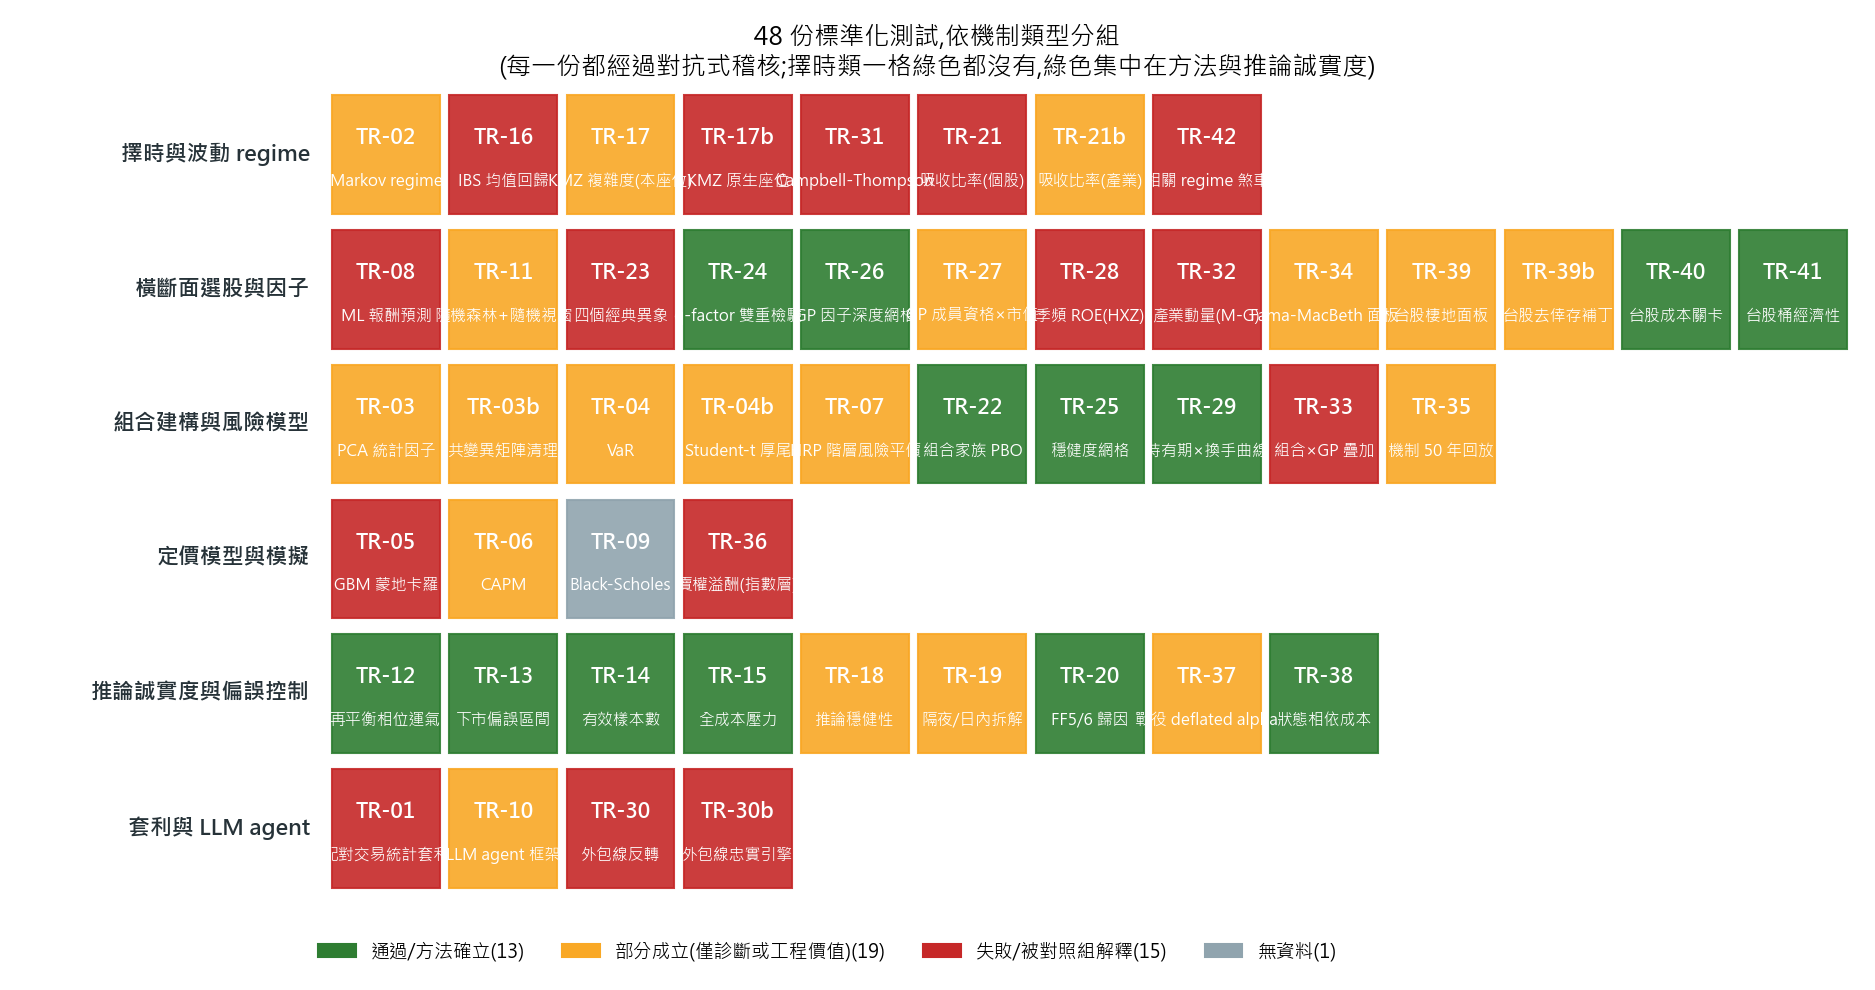
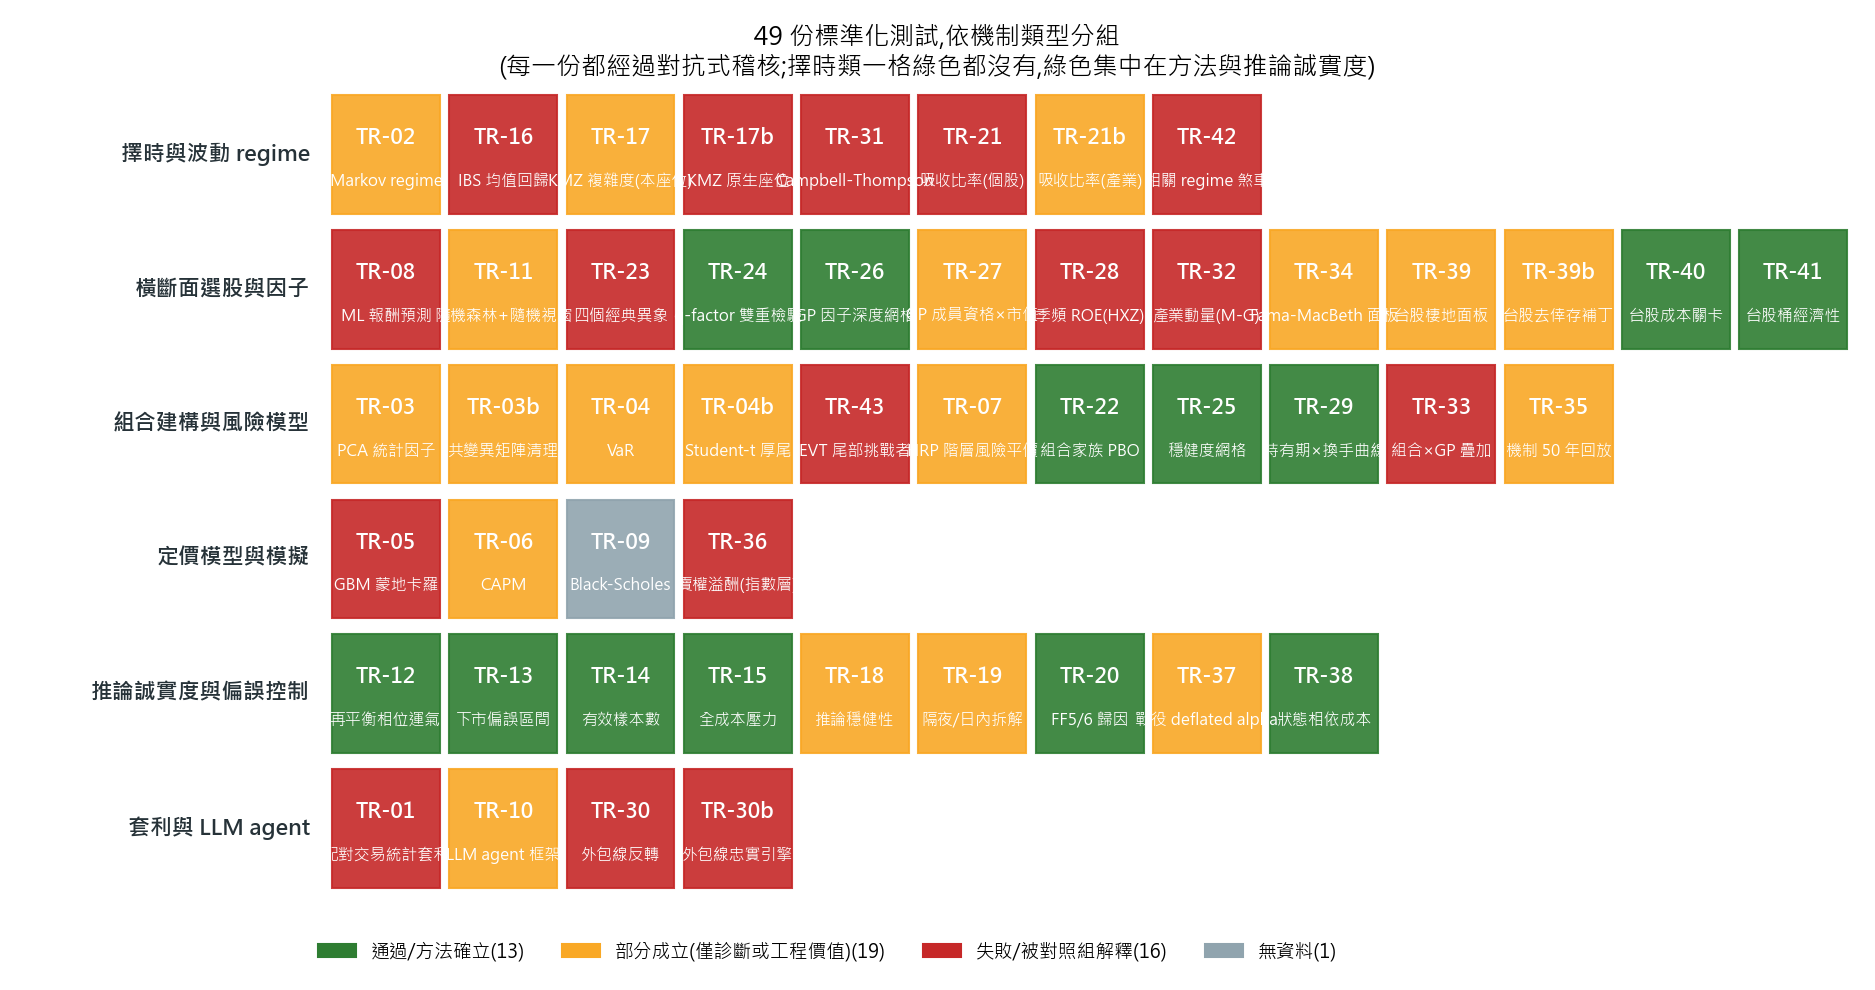
TR-43: EVT tail challenger REJECTED -- it underestimates the tail the incumbent already handles; risk-engine v2 now 0/2
Second risk-engine challenger, on the estimation-quality side the iron law
does not govern. Conditional EVT (GPD on EWMA-devolatilized exceedances) vs
the incumbent Student-t and a historical-simulation baseline; expanding
window, one-step-ahead.

Live seat 2015-2026 (2,256 out-of-sample days):
  Student-t  99%: 1.24% breaches, Kupiec p=0.267 | 99.5%: 0.44%, p=0.697
  EVT-GPD    99%: 1.82% breaches, Kupiec p=0.000 | 99.5%: 0.84%, p=0.036
EVT is REJECTED at both levels, the incumbent at neither -- the challenger
underestimates the tail. Its only edge is CVaR RMSE (47 vs 90bps), i.e. the
shape given a breach; getting the breach FREQUENCY wrong makes that useless.
The 50-year monthly analog cannot separate the three models (all overly
conservative at 0.20% breaches) -- reported as indistinguishable, not as a tie.

C3 is the honest part, and it was pre-registered: the only decision this
module feeds is the L-scale, and all three models imply the SAME leverage
(0.11-0.12). Even a winning challenger would have been BETTER-BUT-INERT and
would not have shipped. This one did not win either.

Diagnosis worth keeping: EWMA devolatilization assumes a conditionally-normal
skeleton, but this book's extreme days come from MULTIPLE SLEEVES failing
together (correlations jumping), not from one sleeve's volatility scaling.
Devolatilizing squashes exactly that structure back to normal scale, so the
GPD extrapolates from flattened residuals and comes out too narrow -- the same
[…]

Changed region(s): [[0.4021, 0.3636, 0.8661, 0.5152]]

diff --git a/scripts/readme_figs.py b/scripts/readme_figs.py
@@ -50,6 +50,7 @@ GROUPS = [
         ("TR-03b", "共變異矩陣清理", "Covariance cleaning", "M"),
         ("TR-04", "VaR", "VaR", "M"),
         ("TR-04b", "Student-t 厚尾", "Student-t fat tails", "M"),
+        ("TR-43", "EVT 尾部挑戰者", "EVT tail challenger", "F"),
         ("TR-07", "HRP 階層風險平價", "HRP", "M"),
         ("TR-22", "組合家族 PBO", "Combo-family PBO", "P"),
         ("TR-25", "穩健度網格", "Robustness grid", "P"),
@@ -89,9 +90,9 @@ LEGEND = {
            "F": "failed / explained by controls", "X": "no data"},
 }
 TITLES = {
-    "zh": "48 份標準化測試,依機制類型分組\n"
+    "zh": "49 份標準化測試,依機制類型分組\n"
           "(每一份都經過對抗式稽核;擇時類一格綠色都沒有,綠色集中在方法與推論誠實度)",
-    "en": "All 48 standardized tests, grouped by mechanism type\n"
+    "en": "All 49 standardized tests, grouped by mechanism type\n"
           "(every report adversarially audited; the timing row has no green at all)",
 }
 

diff --git a/docs/tests/TR-43-evt-tail.md b/docs/tests/TR-43-evt-tail.md
@@ -1,0 +1,65 @@
+# TR-43 — L3 EVT 尾部模組 vs 現役 Student-t(風險引擎 v2 第二挑戰者)
+
+> TR-42 否決了 L2(依 regime 訊號調曝險=擇時,已敗八次)。剩下的是**估計品質**問題——
+> 不是決定「何時曝險」,而是決定「該為多少損失編預算」——這類問題不受擇時鐵律管轄。
+> 本 TR 是其中第一個:條件式 EVT(對 EWMA 去波動化殘差的超額值配適 GPD)對上現役 Student-t
+> 與歷史模擬基準。腳本:`scripts/tests/tr43_evt_tail.py` · 圖:`docs/tests/img/tr43_evt_tail.png`
+
+## 判定:**REJECTED——EVT 在兩個座位上都沒有優於現役 Student-t,而且它被拒絕的次數更多(3 vs 1)**
+
+CAL 過(重現 TR-04b:常態 VaR 99% 被 Kupiec 拒絕 p<0.0001,Student-t 未被拒絕 p=0.267)。
+
+### C1/C2 實際座位 2015–2026(日頻,樣本外 2,256 期)
+
+| 模型 | 99% 破線率 | Kupiec p | 99.5% 破線率 | Kupiec p | CVaR-RMSE |
+|---|---|---|---|---|---|
+| **Student-t(現役)** | **1.24%** | **0.267** | **0.44%** | **0.697** | 90 / 59 bps |
+| 歷史模擬 | 2.04% | **0.000** ✗ | 0.84% | **0.036** ✗ | 47 / 52 bps |
+| **EVT-GPD(挑戰者)** | 1.82% | **0.000** ✗ | 0.84% | **0.036** ✗ | 47 / 51 bps |
+
+**EVT 在兩個信心水準都被 Kupiec 拒絕,現役都沒有。** EVT 的破線率(1.82%)接近歷史模擬
+(2.04%)而非名目值——條件式 EVT 在這條報酬流上**低估了尾部**。它唯一的優勢是 CVaR-RMSE
+略低(47 vs 90bps),但那是「已破線之後的形狀」較準;**破線頻率本身錯了,形狀準沒有用**。
+
+### C4 類比座位 1975–2026(月頻,regime 多樣,樣本外 497 期)
+
+三個模型**完全相同**(破線 0.20%、Kupiec p=0.029、CVaR-RMSE 166–400bps):月頻資料下
+三者都**過度保守**(實際破線遠低於名目),差異落在雜訊內。長史座位無法分辨它們。
+
+### C3 這個模組真正餵養的決策(誠實的一段)
+
+| 模型 | 單日 99% 損失 | 允許 L |
+|---|---|---|
+| Student-t(現役) | −1.66% | 0.12 |
+| 歷史模擬 | −1.74% | 0.11 |
+| EVT-GPD | −1.71% | 0.12 |
+
+**三個模型給出的槓桿刻度一模一樣。** 就算 EVT 贏了統計檢定,它也**改變不了任何決策**——
+這正是 F0 預先寫下「BETTER-BUT-INERT 不入列」那條規則要處理的情況。實際結果更乾脆:
+它連統計檢定都沒贏。
+
+![TR-43 EVT tail](img/tr43_evt_tail.png)
+
+## 讀法
+
+1. **現役 Student-t 是對的工具。** TR-04b 選它是因為常態被拒絕;現在它又在更嚴格的比較裡
+   (含獨立性檢定與 CVaR 誤差、兩個座位)守住位置。**不改。**
+2. **條件式 EVT 在這裡低估尾部的原因**:EWMA 去波動化假設條件常態的骨架,而主力組合的
+   極端日多半是**多腿同時失效**(相關跳升)而非單腿波動放大——去波動化把這種結構性事件
+   壓回常態尺度,GPD 再從被壓平的殘差外推,自然不夠寬。這與 TR-05 的教訓同源:
+   **對這個帳簿,尾部的來源是相關結構,不是邊際波動。**
+3. **風險引擎 v2 目前 0/2**:L2 敗於擇時鐵律、L3 敗於估計品質檢定。剩 L1(HAR-RV 波動預測)
+   與 L4(component-CVaR 配置器,先驗最低,TR-22 已證配置器互換)。**這個框架正在如設計般
+   運作**——「打不贏現役者不入列」的預設答案就是「不入列」。
+
+## 誠實範圍
+
+- 閾值 10%、兩個信心水準動工前固定,**無網格搜尋**(EVT 的閾值選擇是文獻上出名的自由度,
+  一搜就會找到「有效」的格子——那正是 F5 禁止的事)。
+- 日頻座位的極端事件樣本仍小(99.5% 名目=約 11 次破線);月頻座位更小,故 C4 只能說
+  「分不出來」而非「一樣好」。
+- CVaR 的 Student-t 版用模擬求解;EVT 的 CVaR 在 shape≥1 時退化為 VaR×1.5(保護性處理)。
+- 試驗會計:與 TR-42 共用「風險引擎挑戰者」家族計數(累計 2)。
+
+*2026-07-20。CAL 過;判定照 F0 嚴格路由(EVT 拒絕次數多於現役 → REJECTED);C3 的 L 刻度
+無差別結果照 F0 預先寫下的 BETTER-BUT-INERT 條款記錄。*

diff --git a/README.md b/README.md
@@ -10,7 +10,7 @@
 
 ### What this is
 
-A personal research project. It started with a finding we couldn't ignore: **McLean & Pontiff (2016, *Journal of Finance*)** re-tested 97 published return predictors and found their returns average **26% lower out-of-sample and 58% lower after publication** — the market eats published edges. So the question became: *of everything floating around the internet, papers, and guru books, how much survives an honest test run today?* Using $0/month of free data (yfinance, SEC EDGAR, public archives), across 100+ commits and **~150 mechanisms/strategies tested (48 standardized test reports, every one adversarially audited)**, the answer turned out to be more valuable than the question — because it turned *"what do we know, what don't we know, and how do we decide what's feasible"* into reproducible code and documents.
+A personal research project. It started with a finding we couldn't ignore: **McLean & Pontiff (2016, *Journal of Finance*)** re-tested 97 published return predictors and found their returns average **26% lower out-of-sample and 58% lower after publication** — the market eats published edges. So the question became: *of everything floating around the internet, papers, and guru books, how much survives an honest test run today?* Using $0/month of free data (yfinance, SEC EDGAR, public archives), across 100+ commits and **~150 mechanisms/strategies tested (49 standardized test reports, every one adversarially audited)**, the answer turned out to be more valuable than the question — because it turned *"what do we know, what don't we know, and how do we decide what's feasible"* into reproducible code and documents.
 
 ### The bottom line (as of 2026-07)
 
@@ -20,12 +20,12 @@ A personal research project. It started with a finding we couldn't ignore: **McL
 | Any real alpha at all? | **One, borderline.** The 5-sleeve risk-parity book: monthly Carhart t=2.64, below the strict 3.0 bar. Its real deliverable is risk-shaping, levered to your budget. Selection-honest deflation (TR-37): P(the alpha is real) ≈ 0.87 at the 17 combo-level trials we actually ran, 0.56 under the paranoid all-campaign count, ≈ 0.8 under a 90%-null skeptical prior — most likely real, but no honest angle calls it certain. |
 | Any stock-picking signal? | **One, and it keeps getting more honest.** Gross profitability — headline ICIR +0.30, but masked to actual index members at each date it retains only 59% (ICIR +0.13, TR-27), and its IC turned negative in 2025-26 (on watch); a joint Fama-MacBeth panel sharpens the watch — independently priced in 2015-2020 (t=+2.67), flat since 2021 (TR-34). Momentum, value, PEAD, insider, ML forecasters, and four classic anomalies all failed; industry momentum replicates but is pure momentum-factor exposure (TR-32). And the two survivors do not stack: a GP sleeve subtracts alpha from the flagship book (TR-33 — the honest chain ends at a +0.04%/yr tradable spread). First crack of light from a new habitat: on the Taiwan panel (1,151 TWSE stocks, TR-39) four characteristics cleared t≥2 jointly — and the survivorship patch (TR-39b: official TWSE delisted list + a pandas pct_change ffill backdoor caught by CAL) then split them: momentum (+84bps/mo, t=2.4), abnormal volume (+94, t=3.4) and illiquidity (−106, t=−2.8) are CONFIRMED and stronger after 2021, while the MAX lottery premium was retired as survivorship glare. Then the cost gate (TR-40) INVERTED the ranking: the panel's strongest slope (abnormal volume, t=3.4) turns over 6.8x/yr and loses 7.07%/yr to fees, netting t=0.6; the weakest (illiquidity) barely turns over and nets **+6.75%/yr, t=2.3** — the only survivor, robust to a 31-tick break-even spread but capacity-capped, which is what an illiquidity premium *is*. The bucket decomposition (TR-41) then killed the intuitive high-capacity workaround: the premium lives ONLY in the last decile (D2 is already zero, D3-D9 are negative), so "avoid the most crowded names" is a significantly LOSING strategy (−0.92%/yr, t=−2.34) — excluding a good bucket just overweights the bad ones. It survives a skip-a-month stale-price check and decays monotonically with book size (+5.3%/yr at NT$50M, +1.5% at NT$500M): a textbook liquidity compensation, not an anomaly. |
 | Does market timing work? | **No — eight separate confirmations, and the law is broader than we thought.** A dumb constant exposure or a random control matched or beat every timing mechanism tested (Markov, IBS, absorption ratio on two seats, KMZ complexity, Campbell-Thompson sign restrictions, the outside bar). The eighth (TR-42) extends it from RETURN timing to RISK-INPUT timing: a bond-equity correlation brake — which forecasts nothing, it only claims the risk model's inputs changed — still lost to a constant at matched average exposure, and landed at the 20th percentile of a random-brake placebo. |
-| Then what's the asset here? | **The method and the data moat.** 48 adversarially audited test reports, a registry where negative results are first-class, seven documented self-corrections, and a $0 data stack with two collect-forward pipelines recording what money can't buy retroactively. |
+| Then what's the asset here? | **The method and the data moat.** 49 adversarially audited test reports, a registry where negative results are first-class, seven documented self-corrections, and a $0 data stack with two collect-forward pipelines recording what money can't buy retroactively. |
 
 ### What we built
 
 1. **An acceptance framework ("fabric" v2.0, [docs/17](docs/17-fabric-acceptance.md))** — a single rule table F0–F13 codifying every mistake we made: pre-committed falsifiable claims (F0), leak-free signals + fill-time conventions (F1), spread-scaled costs with mandatory 2× stress (F2), excess-over-T-bill Sharpe (F3), effective sample sizes (F4), campaign-wide trial accounting with a t≥3.0 alpha bar (F5), **the Nagel control triple — which simplest control explains it?** (F6), sub-period + long-history replay (F7), verdicts scoped to seat×habitat (F8), path randomization (F9), re-test cascades (F10), universe legitimacy (F11), rebalance-phase averaging (F12), and delisting rules (F13). Its economic preamble is **Grossman-Stiglitz**: at $0 information cost, equilibrium alpha is $0 — every re-open condition must be priced as an information cost.
-2. **Forty-eight standardized test reports** ([docs/tests/TR-01..24 + b-series](docs/tests/)): statistical arbitrage, Markov regime-switching, PCA factor models, covariance cleaning, VaR and fat tails, GBM Monte Carlo, CAPM, HRP, ML forecasting, Black-Scholes (N/A — no data, refused to fabricate), LLM agent frameworks, bagged backtesting, rebalance-phase luck, delisting bias, effective samples, cost stress, the IBS full trial — plus a paper-driven wave: inference robustness (TR-18), overnight/intraday decomposition (TR-19), FF5/6 and q-factor attribution (TR-20/24), four classic anomalies (TR-23), combo PBO (TR-22), and **native-seat replications** of Kelly-Malamud-Zhou's *Virtue of Complexity* (TR-17b) and the absorption ratio (TR-21b) — then a **depth series interrogating our own survivors** (the robustness plateau TR-25, GP depth/membership/quarterly clocks TR-26–28, holding-period economics TR-29, the two-survivor stacking test TR-33), the Goyal-Welch/Campbell-Thompson timing line at its source (TR-31), Moskowitz-Grinblatt industry momentum (TR-32), and a **creator-claim pipeline** that turns YouTube trading mechanisms into pre-registered tests (TR-30/30b). Every report was adversarially audited; the audits reversed our own headline more than once.
+2. **Forty-nine standardized test reports** ([docs/tests/TR-01..24 + b-series](docs/tests/)): statistical arbitrage, Markov regime-switching, PCA factor models, covariance cleaning, VaR and fat tails, GBM Monte Carlo, CAPM, HRP, ML forecasting, Black-Scholes (N/A — no data, refused to fabricate), LLM agent frameworks, bagged backtesting, rebalance-phase luck, delisting bias, effective samples, cost stress, the IBS full trial — plus a paper-driven wave: inference robustness (TR-18), overnight/intraday decomposition (TR-19), FF5/6 and q-factor attribution (TR-20/24), four classic anomalies (TR-23), combo PBO (TR-22), and **native-seat replications** of Kelly-Malamud-Zhou's *Virtue of Complexity* (TR-17b) and the absorption ratio (TR-21b) — then a **depth series interrogating our own survivors** (the robustness plateau TR-25, GP depth/membership/quarterly clocks TR-26–28, holding-period economics TR-29, the two-survivor stacking test TR-33), the Goyal-Welch/Campbell-Thompson timing line at its source (TR-31), Moskowitz-Grinblatt industry momentum (TR-32), and a **creator-claim pipeline** that turns YouTube trading mechanisms into pre-registered tests (TR-30/30b). Every report was adversarially audited; the audits reversed our own headline more than once.
 3. **Working infrastructure**: point-in-time data layer (DuckDB+Parquet; EDGAR aligned to filing dates; 1993+ index history; PIT S&P 500 membership 1996–2026), order-independent backtest engine, rigor modules (PSR/DSR/PBO/SPA), daily Telegram monitors on free GitHub Actions, two **collect-forward pipelines** (daily SPY/QQQ option chains; weekly analyst estimates for the S&P 500 — you cannot download the past, only record the present), a 70-source **data-source catalog** with adopt/reject verdicts ([docs/refs/data-sources.md](docs/refs/data-sources.md)), and a **paper-to-TR pipeline** ([docs/21](docs/21-paper-to-tr-pipeline.md)).
 
 ### Results at a glance
@@ -40,9 +40,9 @@ A personal research project. It started with a finding we couldn't ignore: **McL
 
 **The scoreboard.** 226 named variants registered, 26 mechanism families judged, 5 PASSED — and exactly **one** statistically significant alpha. Most of what the internet calls "a working strategy" died in this funnel; keeping the failed strategies on record is half this repo's value.
 
-![Verdict map of all 48 standardized tests, grouped by mechanism type](docs/img/readme_verdict_map_en.png)
+![Verdict map of all 49 standardized tests, grouped by mechanism type](docs/img/readme_verdict_map_en.png)
 
-**The verdict map (updated 2026-07).** All 48 standardized tests, grouped by *what kind of mechanism* each one judges. Read it by row: the timing/regime row has no green at all; the green lives almost entirely in the inference-honesty row — method, not signals. The 2026-07 additions are the two native-seat replications: KMZ's Virtue of Complexity **replicates on its home turf (Sharpe +0.41 at 12,000 features) and is still fully explained by volatility-timing controls (+0.50)** — Nagel's critique confirmed at the source (TR-17b); the absorption ratio's crash-warning spike **weakly survives on industry portfolios (7/10 vs 33% base rate) while its timing gate lost to a static constant for the fifth time** (TR-21b). The newest wave sharpened all three storylines: Campbell-Thompson's sign restrictions rescue out-of-sample R² directionally and are still spanned by the same volatility controls (TR-31); Moskowitz-Grinblatt industry momentum is the least-decayed mechanism we have ever tested (−2% post-publication vs the −58% McLean-Pontiff average) precisely because it is not an anomaly — it is momentum-factor exposure in industry clothes, with zero alpha over FF5+UMD in every window (TR-32); and a user audit caught our own outside-bar engine being unfaithful to its source on four counts — rebuilt faithfully, the verdict class survived, this time earned (TR-30→30b).
+**The verdict map (updated 2026-07).** All 49 standardized tests, grouped by *what kind of mechanism* each one judges. Read it by row: the timing/regime row has no green at all; the green lives almost entirely in the inference-honesty row — method, not signals. The 2026-07 additions are the two native-seat replications: KMZ's Virtue of Complexity **replicates on its home turf (Sharpe +0.41 at 12,000 features) and is still fully explained by volatility-timing controls (+0.50)** — Nagel's critique confirmed at the source (TR-17b); the absorption ratio's crash-warning spike **weakly survives on industry portfolios (7/10 vs 33% base rate) while its timing gate lost to a static constant for the fifth time** (TR-21b). The newest wave sharpened all three storylines: Campbell-Thompson's sign restrictions rescue out-of-sample R² directionally and are still spanned by the same volatility controls (TR-31); Moskowitz-Grinblatt industry momentum is the least-decayed mechanism we have ever tested (−2% post-publication vs the −58% McLean-Pontiff average) precisely because it is not an anomaly — it is momentum-factor exposure in industry clothes, with zero alpha over FF5+UMD in every window (TR-32); and a user audit caught our own outside-bar engine being unfaithful to its source on four counts — rebuilt faithfully, the verdict class survived, this time earned (TR-30→30b).
 
 ![Flagship 5-sleeve combo vs VOO at L=1 and at a same-risk L=1.5](docs/img/fig_combo.png)
 
@@ -201,7 +201,7 @@ Architecture: UI (Streamlit) → CLI (Typer) → `trading_analysis.api` (only pu
 
 ### 專案概述
 
-一個個人研究的 side project。起點是一篇沒辦法當作沒看到的論文：**McLean 與 Pontiff(2016，《Journal of Finance》)**重測了 97 個已發表的報酬預測訊號，發現這些訊號的報酬平均在**樣本外低了 26%、論文發表之後低了 58%**——公開發表的優勢，會被市場逐步吃掉。所以真正的問題變成：「網路上、論文裡、大師書裡的那些策略，經過誠實的測試、放到今天，還剩下多少？」我們用每月 0 元的免費資料(yfinance、SEC EDGAR、公開檔案庫)，歷經 100 多次 commit、**約 150 個機制/策略的系統性測試(48 份標準化測試報告，每一份都經過對抗式稽核)**，得到的答案比問題本身更有價值，因為它把「什麼是已知、什麼是未知、如何判斷可不可行」變成了可重現的程式與文件。
+一個個人研究的 side project。起點是一篇沒辦法當作沒看到的論文：**McLean 與 Pontiff(2016，《Journal of Finance》)**重測了 97 個已發表的報酬預測訊號，發現這些訊號的報酬平均在**樣本外低了 26%、論文發表之後低了 58%**——公開發表的優勢，會被市場逐步吃掉。所以真正的問題變成：「網路上、論文裡、大師書裡的那些策略，經過誠實的測試、放到今天，還剩下多少？」我們用每月 0 元的免費資料(yfinance、SEC EDGAR、公開檔案庫)，歷經 100 多次 commit、**約 150 個機制/策略的系統性測試(49 份標準化測試報告，每一份都經過對抗式稽核)**，得到的答案比問題本身更有價值，因為它把「什麼是已知、什麼是未知、如何判斷可不可行」變成了可重現的程式與文件。
 
 ### 結果總結(截至 2026-07)
 
@@ -211,12 +211,12 @@ Architecture: UI (Streamlit) → CLI (Typer) → `trading_analysis.api` (only pu
 | 有真的 alpha 嗎？ | **有一個，而且只是邊際。**五 sleeve 風險平價組合：月頻 Carhart t=2.64，低於嚴格門檻 3.0。它真正的價值是風險塑形，可依回撤預算加槓桿。選擇誠實化(TR-37)：P(alpha 為真) 在實際跑過的 17 次組合層級試驗下 ≈ 0.87、悲觀全戰役計數下 0.56、九成懷疑先驗下 ≈ 0.8——大概率是真的，但沒有任何誠實的角度能說成確定。 |
 | 有選股訊號嗎？ | **有一個，而且愈測愈誠實。**毛利/資產品質因子——頭條 ICIR +0.30，但遮罩到「當天真的在指數裡」的名字後只保留 59%(ICIR +0.13，TR-27)，且 2025–26 的 IC 轉負(列入觀察)；聯合 Fama-MacBeth 面板把觀察磨得更利——2015–2020 獨立被定價(t=+2.67)，2021 之後歸零(TR-34)。動能、價值、PEAD、內部人、機器學習預測、四大經典異象全數陣亡；產業動量能複製但整條是動量因子曝險(TR-32)。而且兩個倖存者疊不起來：把 GP sleeve 加進主力帳簿反而扣掉 alpha(TR-33——誠實鏈的終點是 +0.04%/yr 的可交易價差)。新棲地透出第一道光：台股面板(1,151 檔 TWSE，TR-39)四個特徵聯合過 t≥2——去倖存補丁(TR-39b：TWSE 官方終止名單+CAL 抓到的 pandas pct_change ffill 後門)隨後把它們分成兩半：動能(+84bps/mo，t=2.4)、異常量(+94，t=3.4)、低流動性(−106，t=−2.8)**確認**且 2021 後更強；MAX 樂透溢價判定為倖存者眩光退役。接著成本關卡(TR-40)把排序**整個翻轉**：面板裡最強的異常量(t=3.4)年換手 6.8 倍、吃掉 7.07% 成本後只剩 t=0.6；最弱的低流動性幾乎不換手，淨賺 **+6.75%/yr、t=2.3**——唯一存活者，對價差假設穩健到損益兩平要 31 跳，但容量有天花板，而這正是低流動性溢酬的定義。桶分解(TR-41)接著殺掉了直覺上的高容量替代方案：溢酬**只住在最尾端那一格**(D2 已歸零、D3–D9 全負)，所以「避開最擁擠的股票」是個**顯著虧損**的策略(−0.92%/yr，t=−2.34)——排除一個好桶只會讓你重壓在壞桶上。它通過跳月的停滯價檢查，並隨資金規模單調衰減(NT$5,000 萬 +5.3%、NT$5 億 +1.5%)：教科書式的流動性補償，不是異象。 |
 | 擇時有用嗎？ | **沒有——八次獨立確認，而且這條鐵律比我們原本以為的更廣。**一個恆定部位或隨機對照，就能追平或打敗我們測過的每一個擇時機制(Markov、IBS、吸收比率兩個座位、KMZ 複雜度、Campbell-Thompson 符號約束、外包線)。第八次(TR-42)把它從**報酬擇時**擴大到**風險輸入型擇時**：一個股債相關煞車——它不預測任何報酬，只宣稱風險模型的輸入變了——仍然輸給同平均曝險的恆定部位，而且只落在隨機煞車安慰劑的第 20 百分位。 |
-| 那這個專案的資產是什麼？ | **方法本身，加上資料護城河。**48 份經對抗式稽核的測試報告、一份把負面結果當一等公民的註冊表、七次白紙黑字的自我修正，以及 $0 的資料堆疊與兩條「現在不錄、以後買不到」的前向收集管線。 |
+| 那這個專案的資產是什麼？ | **方法本身，加上資料護城河。**49 份經對抗式稽核的測試報告、一份把負面結果當一等公民的註冊表、七次白紙黑字的自我修正，以及 $0 的資料堆疊與兩條「現在不錄、以後買不到」的前向收集管線。 |
 
 ### 建置內容
 
 1. **一套驗收標準(fabric v2.0，[docs/17](docs/17-fabric-acceptance.md))**：單一規則表 F0–F13，把每一次踩過的坑逐條寫成明文規則：動工前先定案的可證偽宣稱(F0)、無洩漏訊號與成交時點慣例(F1)、以買賣價差縮放的成本加上強制 2× 壓力測試(F2)、扣除國庫券利率後的超額 Sharpe(F3)、有效樣本數(F4)、全 campaign 試驗數記帳與 alpha 門檻 t≥3.0(F5)、**Nagel 三重對照：「哪一個最簡單的對照組就能解釋它？」**(F6)、子期穩定與長歷史重放(F7)、判定效力=適用市場×適用情境(F8)、路徑隨機化(F9)、複測級聯(F10)、標的池合法性(F11)、再平衡相位平均(F12)、下市規則(F13)。經濟學前提是 **Grossman-Stiglitz**：資訊成本 0 元，均衡下的 alpha 就是 0 元；每個翻案條件都必須計為一筆資訊成本。
-2. **48 份標準化測試報告**([docs/tests/TR-01..24 + b 系列](docs/tests/))：統計套利、Markov 狀態轉換、PCA 因子模型、共變異清理、VaR 與厚尾、GBM 蒙地卡羅、CAPM、HRP、機器學習預測、Black-Scholes(N/A：沒有資料就不硬湊數字)、LLM agent 框架、bagged 回測、再平衡相位運氣、下市偏誤、有效樣本、成本壓力、IBS 完整檢驗，加上一整波由經典論文驅動的重測：推論穩健性(TR-18)、隔夜/日內拆解(TR-19)、FF5/6 與 q-factor 歸因(TR-20/24)、四個經典異象(TR-23)、組合 PBO(TR-22)，以及把 KMZ《複雜度的美德》(TR-17b)與吸收比率(TR-21b)搬回**論文原生棲地**的重測——之後是**對自家倖存者的深度審訊系列**(穩健度高原 TR-25、GP 深度/成員資格/季頻時鐘 TR-26–28、持有期經濟學 TR-29、兩倖存者疊加終審 TR-33)、回到源頭的 Goyal-Welch/Campbell-Thompson 擇時線(TR-31)、Moskowitz-Grinblatt 產業動量(TR-32)，以及把 YouTube 交易機制轉成預先登記測試的**創作者宣稱管線**(TR-30/30b)。每一份報告都經過對抗式稽核，而且稽核不只一次推翻了我們自己的頭條讀數。
+2. **49 份標準化測試報告**([docs/tests/TR-01..24 + b 系列](docs/tests/))：統計套利、Markov 狀態轉換、PCA 因子模型、共變異清理、VaR 與厚尾、GBM 蒙地卡羅、CAPM、HRP、機器學習預測、Black-Scholes(N/A：沒有資料就不硬湊數字)、LLM agent 框架、bagged 回測、再平衡相位運氣、下市偏誤、有效樣本、成本壓力、IBS 完整檢驗，加上一整波由經典論文驅動的重測：推論穩健性(TR-18)、隔夜/日內拆解(TR-19)、FF5/6 與 q-factor 歸因(TR-20/24)、四個經典異象(TR-23)、組合 PBO(TR-22)，以及把 KMZ《複雜度的美德》(TR-17b)與吸收比率(TR-21b)搬回**論文原生棲地**的重測——之後是**對自家倖存者的深度審訊系列**(穩健度高原 TR-25、GP 深度/成員資格/季頻時鐘 TR-26–28、持有期經濟學 TR-29、兩倖存者疊加終審 TR-33)、回到源頭的 Goyal-Welch/Campbell-Thompson 擇時線(TR-31)、Moskowitz-Grinblatt 產業動量(TR-32)，以及把 YouTube 交易機制轉成預先登記測試的**創作者宣稱管線**(TR-30/30b)。每一份報告都經過對抗式稽核，而且稽核不只一次推翻了我們自己的頭條讀數。
 3. **已建置的基礎設施**：point-in-time 資料層(DuckDB+Parquet；EDGAR 以申報日對齊；指數歷史回溯 1993；S&P 500 成分股 PIT 面板 1996–2026)、order-independent 回測引擎、嚴謹度模組(PSR/DSR/PBO/SPA)、每日 Telegram 監控(跑在免費的 GitHub Actions 上)、兩條**前向收集管線**(每日 SPY/QQQ 選擇權鏈快照；每週 S&P 500 分析師預估快照。過去買不到，只能從今天開始記錄)、一份含採用/不採用判定的 **70 個資料源目錄**([docs/refs/data-sources.md](docs/refs/data-sources.md))，以及**論文到 TR 管線**([docs/21](docs/21-paper-to-tr-pipeline.md))。
 
 ### 成果一覽
@@ -231,9 +231,9 @@ Architecture: UI (Streamlit) → CLI (Typer) → `trading_analysis.api` (only pu
 
 **計分板。** 226 個具名變體登記在案、26 類機制接受檢驗、5 個 PASSED，而統計顯著的 alpha 恰好只有 **1 個**。網路上大多數所謂「有效的策略」都死在這個漏斗裡；把這些失敗的策略完整記錄下來，正是這個 repo 一半的價值。
 
-![48 份標準化測試，依機制類型分組的判定分布](docs/img/readme_verdict_map.png)
+![49 份標準化測試，依機制類型分組的判定分布](docs/img/readme_verdict_map.png)
 
-**判定全景(2026-07 更新)。** 48 份標準化測試，依照「它在檢驗哪一種機制」分組。用橫列來讀：擇時與 regime 那一列一格綠色都沒有；綠色幾乎全部集中在「推論誠實度」那一列——通過的是方法，不是訊號。2026-07 新增的兩份原生棲地重測值得單獨說：KMZ 的複雜度美德**回到論文自己的棲地確實複現(12,000 個特徵時 Sharpe +0.41)，但仍然被波動擇時對照組(+0.50)完整蓋過**，Nagel 的批評在源頭獲得確認(TR-17b)；吸收比率的崩盤預警尖峰**在產業組合上弱存活(10 次大跌命中 7 次，基準率 33%)，它的擇時閘門則第五次輸給一個恆定部位**(TR-21b)。最新一波把三條故事線都磨得更利：Campbell-Thompson 的符號約束確實在方向上救回樣本外 R²，但仍被同一組波動對照張成(TR-31)；Moskowitz-Grinblatt 產業動量是我們測過**發表後衰退最少**的機制(−2%，對比 McLean-Pontiff 平均 −58%)——不衰退恰恰因為它不是異象，而是穿產業外衣的動量因子曝險，對 FF5+UMD 在每個時間窗 alpha 都歸零(TR-32)；還有一次使用者稽核抓到我們自己的外包線引擎對來源四處不忠實——忠實重建後判定同類，這次是掙來的(TR-30→30b)。
+**判定全景(2026-07 更新)。** 49 份標準化測試，依照「它在檢驗哪一種機制」分組。用橫列來讀：擇時與 regime 那一列一格綠色都沒有；綠色幾乎全部集中在「推論誠實度」那一列——通過的是方法，不是訊號。2026-07 新增的兩份原生棲地重測值得單獨說：KMZ 的複雜度美德**回到論文自己的棲地確實複現(12,000 個特徵時 Sharpe +0.41)，但仍然被波動擇時對照組(+0.50)完整蓋過**，Nagel 的批評在源頭獲得確認(TR-17b)；吸收比率的崩盤預警尖峰**在產業組合上弱存活(10 次大跌命中 7 次，基準率 33%)，它的擇時閘門則第五次輸給一個恆定部位**(TR-21b)。最新一波把三條故事線都磨得更利：Campbell-Thompson 的符號約束確實在方向上救回樣本外 R²，但仍被同一組波動對照張成(TR-31)；Moskowitz-Grinblatt 產業動量是我們測過**發表後衰退最少**的機制(−2%，對比 McLean-Pontiff 平均 −58%)——不衰退恰恰因為它不是異象，而是穿產業外衣的動量因子曝險，對 FF5+UMD 在每個時間窗 alpha 都歸零(TR-32)；還有一次使用者稽核抓到我們自己的外包線引擎對來源四處不忠實——忠實重建後判定同類，這次是掙來的(TR-30→30b)。
 
 ![主力五 sleeve 組合 vs VOO：L=1 與同風險 L=1.5 兩條線](docs/img/fig_combo.png)
 

diff --git a/docs/27-open-items.md b/docs/27-open-items.md
@@ -43,8 +43,8 @@ TR-35 已給實證錨:**利率主導 regime 是裸露面、扛通膨的是金不
 | 層 | 挑戰者 | 論文 | 採納條件(打不贏現役不入列) |
 |---|---|---|---|
 | ~~L2~~ | ❌ **已否決(TR-42,2026-07-20)**:煞車 Calmar 0.57 輸恆定對照 0.68、隨機安慰劑第 20 百分位;設計窗確實有效(1976-81 比率 1.04→0.74)但 48% 破裂月的機會成本吃光——**鐵律 7→8,擴及風險輸入型擇時** | Engle DCC | — |
-| **L3(遞補為最高優先)** | EVT-GARCH 尾部 | McNeil-Frey 2000 | CVaR/MDD 分布預測優於現行 Student-t。**L2 被否決後,剩餘期望價值集中在「估計品質」而非「時機」——這類問題在鐵律射程之外** |
-| L1 | HAR-RV 波動預測 | Corsi 2009 | 波動預測 RMSE 優於 EWMA 且傳導到交付指標 |
+| ~~L3~~ | ❌ **已否決(TR-43,2026-07-20)**:EVT 在 99%/99.5% 都被 Kupiec 拒絕(低估尾部),現役 Student-t 都沒有;且三模型的 L 刻度相同=就算贏也改不了決策。診斷:本帳簿的尾部來源是**多腿相關跳升**,不是邊際波動,去波動化再外推必然不夠寬 | McNeil-Frey 2000 | — |
+| **L1(僅剩項)** | HAR-RV 波動預測 | Corsi 2009 | 波動預測 RMSE 優於 EWMA 且**傳導到交付指標**。⚠️ TR-43 的診斷已預告風險:本帳簿的尾部/回撤由**相關結構**驅動,改善邊際波動預測未必傳導——先驗已下修 |
 | L4 | component-CVaR 配置器 | Rockafellar-Uryasev | (先驗低:TR-22 已證配置器互換) |
 
 每個挑戰者=一份 TR:F0 預先承諾採納條件、CAL 重現現役數字、對照=現役版。
@@ -78,7 +78,7 @@ TR-35 已給實證錨:**利率主導 regime 是裸露面、扛通膨的是金不
 ## 7. 建議順序(依「可產出決策價值/成本」)
 
 1. ✅ ~~b2 台股成本關卡~~(TR-40 已執行:logdv 存活、另兩者 MARGINAL)。
-2. ❌ ~~L2 相關 regime 煞車~~(TR-42 已否決:第八次擇時失敗)→ **改推 L3 EVT 尾部**(估計品質問題,不受鐵律管轄)。
+2. ❌ ~~L2 相關 regime 煞車~~(TR-42)、❌ ~~L3 EVT 尾部~~(TR-43)皆已否決——**風險引擎 v2 目前 0/2**;L1 先驗已下修(見上表),建議改推工程債與台股選配項。
 3. ✅ ~~b3 桶經濟性~~(TR-41 已執行:CONCENTRATED,無高容量替代方案)。
 4. **B1 GP 終判**(Tiingo 到 300 檔自動觸發)。
 5. 成本模型接線 + 每月持倉自動化(工程債,便宜)。

diff --git a/docs/18-strategy-registry.md b/docs/18-strategy-registry.md
@@ -46,7 +46,7 @@
 | **3×VOO 每年∧虧損不超過 VOO(本輪 goal 目標)** | **最佳 4/10 年(12-1 季動量);無策略 10/10**;需持續 Calmar~3+,此資料不存在 | `scripts/gate_3x_voo.py` |
 | **吸收比率(KLPR 2010)診斷+閘門** | TR-21(reel→主要來源→一天判定):465 檔個股座位上**不領先大跌**(PIT 百分位 62,p=0.40;忠實尖峰版 4/10 vs 基準率 39%)、與平均相關 +0.97 同物、閘門(含忠實三態)輸靜態 69% 與隨機安慰劑——**擇時鐵律第三案例**;經雙向對抗稽核(反 AR 偏誤已修、美化閘門已修,FAIL 更穩)。**TR-21b 原生座位重測(KF49 產業,1970-2026):水位宣稱反轉(中位 37)、dAR>1 尖峰弱複製(7/10 vs 33%,suggestive)、閘門第 5 次死亡(0.28 vs 0.46)**——診斷半條命回來(棲地特異),擇時結論不變 | TR-21/21b、docs/23 |
 
-### 🧪 標準化測試報告 TR-01~42 + 03b/04b/17b/21b/30b/39b(詳見 docs/tests/;**docs/20 論文佇列全清**;TR-01~08 由稽核員重跑全部腳本、數字一對一吻合)
+### 🧪 標準化測試報告 TR-01~43 + 03b/04b/17b/21b/30b/39b(詳見 docs/tests/;**docs/20 論文佇列全清**;TR-01~08 由稽核員重跑全部腳本、數字一對一吻合)
 | TR | 機制 | 判定 | 摘要 |
 |---|---|---|---|
 | TR-01 | 共整合 pairs 統計套利 | **FAILED** | OOS +2.0%/yr < 現金(BIL +2.7%);文獻錨(GGR 2006 距離法 +11%)為脈絡非重現對象——本 TR 測 EG 共整合建構(T1 回掃 2026-07-18 註記:來源-機器錯配已修語言;兩套獨立建構 EG+docs/13 Kalman 同座位皆虧+Do-Faff 已載距離法衰退);9/10 對集中 AI 半導體、SMCI 醜聞炸出 −29.7% MDD;殘值=|z|>4 當單一股異常警報 |
@@ -95,6 +95,7 @@
 | TR-40 | 台股候選成本關卡(docs/27 b2;純多頭頂十分位、月再平衡、手續費 0.1425%×2+證交稅 0.30%+價差) | **SURVIVES: logdv | MARGINAL: mom122/avol** | **成本後排序徹底翻轉:FM 最強的 avol(t=3.39)被 6.8× 年換手吃掉 7.07% 成本→淨 +1.93%(t=0.59);最弱的 logdv(t=−2.77)因 0.9× 換手只吃 0.97%→淨 +6.75%(t=2.33)存活**;換手率是唯一樞紐(TR-29 持有期教訓在新棲地重演);**CAL-b 兩次否決 CS 成本模型**——即使真實高低價,CS 仍把薄量股讀成價差較窄(47 vs 66bps,無成交日壓平區間)=CS 在台股薄量端失效→改機械式 tick 模型(2 跳基準+1/2/4 敏感度);**POST-RUN 容量診斷:logdv 損益兩平價差 ≈31 跳(極穩健)但全組合容量僅 ≈NT$1,500 萬**(每檔日成交 NT$1.5M)=低流動性溢酬的定義(付錢給你因為你出不來);avol 容量 NT$29 億但淨額≈0=同一條供需曲線兩端 | 
 | TR-41 | 台股桶經濟性:溢酬住在哪(docs/27 b3;十分位階梯+兩實作對決+容量前緣) | **CONCENTRATED** | CAL 過(D1 +6.65% vs TR-40 +6.75%);**溢酬只在 D1:D2 已歸零(−0.35%)、D3-D9 全負(最深 D8 −6.25%,t=−3.90)**;**「避開最熱門」(D1-D9)是顯著虧損 −0.92%/yr(t=−2.34)——排除好桶=重壓壞桶,直覺被證偽**;C3 黃金診斷=**啞鈴**(兩端 +6.81%/+1.94% 勝中段 −2.34%),與 TR-33 美股 GP 的「兩端輸中段」方向相反;**跳一個月檢查通過(+6.61%,t=2.31)=不是停滯價/價差彈跳假象**;C4 容量前緣:NT$5,000 萬 +5.29%、NT$1.5 億 +3.19%、NT$5 億 +1.48%(填滿率 19%)=**無高容量替代方案**;三特徵(集中尾端、隨規模單調衰減、通過停滯價檢查)全符 Amihud-Mendelson 流動性補償而非異象 | 
 | TR-42 | L2 股債相關 regime 煞車(風險引擎 v2 第一挑戰者;docs/25 C1) | **EIGHTH TIMING FAILURE** | CAL 過(類比座位重現 TR-35 MDD −14.6%);訊號=36 月滾動股債相關>0(佔 48% 月份,落後一期);**煞車A Calmar 0.57 輸給同平均曝險恆定部位 0.68(恆定在兩軸都贏:MDD −12.6% vs −14.4%、CAGR 8.5% vs 8.3%),且只在隨機煞車安慰劑第 20 百分位=比隨便踩還差**;煞車B(債換金)Calmar 0.41/MDD −25.5% 更糟(金波動;TR-35「金扛通膨」是單腿事實,非組合層可行);**C3 誠實記錄:煞車在設計窗確實有效(停滯性通膨比率 1.04→0.74、1994 1.16→0.82)但 48% 破裂月的機會成本吃光一切**=七次失敗的同一機制;**鐵律 7→8 並擴及「風險輸入型擇時」**(不只別預測報酬,是別依任何 regime 訊號調曝險);主力不動,風險引擎優先序改 L3>L1>L4 | 
+| TR-43 | L3 EVT 尾部模組(風險引擎 v2 第二挑戰者;條件式 GPD vs 現役 Student-t vs 歷史模擬) | **REJECTED** | CAL 過(重現 TR-04b:常態 VaR 99% 被拒 p<1e-4、Student-t 未被拒 p=0.267);**實際座位:EVT 在 99%/99.5% 都被 Kupiec 拒絕(破線 1.82%/0.84%,p=0.000/0.036),現役都沒有(1.24%/0.44%,p=0.267/0.697)——EVT 低估尾部**;EVT 唯一優勢是 CVaR-RMSE(47 vs 90bps)=形狀較準但頻率錯了,無用;類比座位三模型無法分辨(皆過度保守);**C3 誠實條款:三模型的 L 刻度完全相同(0.11-0.12)=就算贏統計也改不了決策**(F0 預寫的 BETTER-BUT-INERT);診斷:EWMA 去波動化假設條件常態骨架,但本帳簿的極端日是**多腿相關跳升**而非單腿波動放大→GPD 從被壓平的殘差外推自然不夠寬(與 TR-05「尾部來源是相關結構非邊際波動」同源);**風險引擎 v2 目前 0/2**(L2 敗擇時鐵律、L3 敗估計檢定),框架如設計運作 | 
 | TR-03b | 共變異清理競技場(MP 譜+clipping+特徵向量端 BAHC;docs/20+23) | **clip≈LW 平手;BAHC PARTIAL;LW 慣例確認** | 463 檔 min-var 座位、判準=OOS 實現波動:LW 13.2-14.2%、clip 13.6-14.6%(**同族平手**,docs/20 預測獲支持)、BAHC 14.1-15.5%(贏 naive 沒贏 LW=特徵向量清理在 vol 通道無增值);**稽核抓幽靈資產 bug**(SW 97%/AMCR 45% 平價回填被當免費分散器,美化 LW→已加恰零報酬濾網);「賺回門票」限 vol 通道(淨報酬 inv-variance 全勝);47 檔子面板訊號特徵值中位 4=docs/20 預測在其 N 成立 |
 
 ## 2. 目標閘門實測(本輪 goal:每年 ≥3×VOO ∧ 虧損年不劣於 VOO)